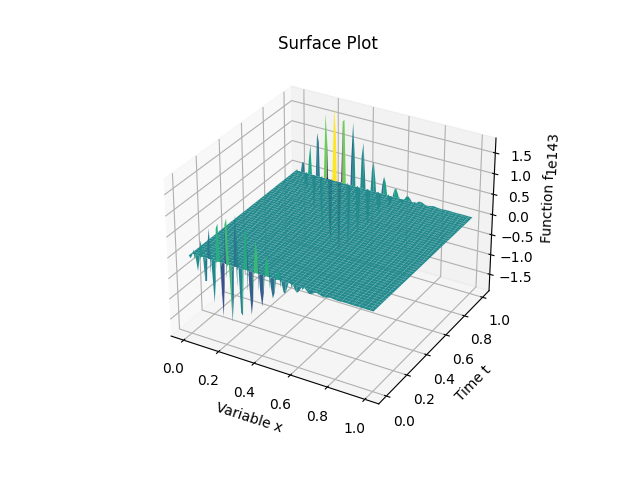
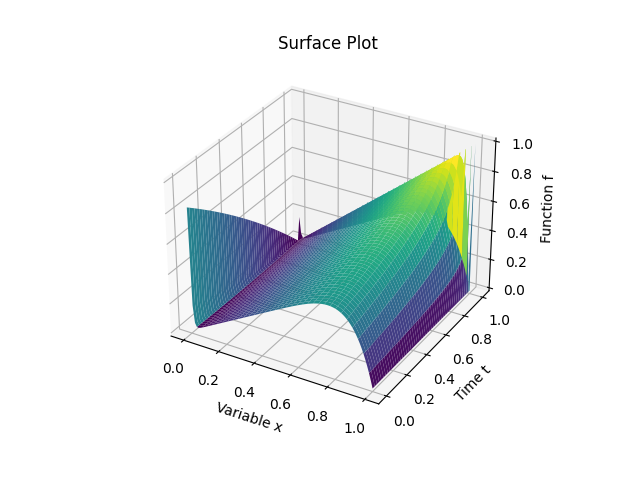
++

diff --git a/crank_test.py b/crank_test.py
@@ -19,13 +19,13 @@ def Crank_Nicolson(S0, r, T, N, M, x_max, x_min, sigma):
 
     V = np.zeros(shape=(M + 2, N + 2))
     C = np.zeros(shape=(M + 2, N + 2))
-    K = np.zeros((M + 2, N + 2))
+    K = np.zeros(shape=(M + 2, N + 2))
     K2 = np.zeros(shape=(M + 2, N + 2))
 
-    A = np.zeros(N + 1)
-    B = np.zeros(N + 1)
-    D = np.zeros(N + 1)
-    D2 = np.zeros(N + 1)
+    A = np.zeros(N + 2)
+    B = np.zeros(N + 2)
+    D = np.zeros(N + 2)
+    D2 = np.zeros(N + 2)
 
     for n in range(0, M + 2):
         V[n, 0] = 1 / (r * T) * (1 - np.exp(-r * (T - n * deltat))) - x_min * np.exp(-r * (T - t[n]))
@@ -37,14 +37,17 @@ def Crank_Nicolson(S0, r, T, N, M, x_max, x_min, sigma):
     # for n in range(0, M + 1):
     for n in range(1, M + 1):
         for i in range(1, N + 1):
-            A[i] = - deltat * 0.25 * (-(i * r + 1/(T * delta_x)) - (sigma**2) * (i**2))
-            B[i] = deltat * 0.25 * (-(i * r + 1/(T * delta_x)) + (sigma**2) * (i**2))
+            A[i] = - deltat * 0.25 * (-(i * r + 1/(T * delta_x)) + (sigma**2) * (i**2))
+            B[i] = deltat * 0.25 * (-(i * r + 1/(T * delta_x)) - (sigma**2) * (i**2))
             D[i] = 1 + deltat * 0.5 * (sigma**2) * (i**2)
+            # A[i] = deltat * (-(sigma ** 2 * i ** 2) / (2 * delta_x ** 2) - (1 / T + r * i) * 1 / (2 * delta_x))
+            # B[i] = deltat * ((sigma ** 2 * i ** 2) / (delta_x ** 2) + 1 / deltat)
+            # D[i] = deltat * (-(sigma ** 2 * i ** 2) / (2 * delta_x ** 2) + (1 / T + r * i) * 1 / (2 * delta_x))
             h = 1 / (r * T) * (1 - np.exp(-r * (T - (n - 1) * deltat)))
             # K[n, i] = A[i] * V[n - 1, i + 1] + B[i] * V[n - 1, i - 1] + D[i] * V[n - 1, i] - Kronecker(1, i) * B[1] * h
-            # K[n, i] = A[i] * V[n, i - 1] + B[i] * V[n, i + 1] + D[i] * V[n, i] - Kronecker(1, i) * B[1] * h
-            K[n, i] = B[i] * V[n, i - 1] + A[i] * V[n, i + 1] + D[i] * V[n, i] - Kronecker(1, i) * B[1] * h
-
+            K[n, i] = A[i] * V[n, i - 1] + B[i] * V[n, i + 1] + D[i] * V[n, i] - Kronecker(1, i) * B[1] * h
+            # K[n, i] = B[i] * V[n, i - 1] + A[i] * V[n, i + 1] + D[i] * V[n, i] - Kronecker(1, i) * B[1] * h
+            # K[n + 1, i] = A[i] * V[n, i - 1] + B[i] * V[n, i] + D[i] * V[n, i + 1] - Kronecker(1, i) * B[1] * h
 
         D2[1] = D[1]
         K2[n, 1] = K[n, 1]
@@ -79,6 +82,7 @@ def Crank_Nicolson(S0, r, T, N, M, x_max, x_min, sigma):
     plt.show()
     return V
 
+
 # Paramètres
 
 Xmin = 0
@@ -91,7 +95,7 @@ sigma = 0.3
 N = 99
 M = 999
 
-S = np.linspace(1,50,50)
+S = np.linspace(1, 50, 50)
 V = np.zeros(len(S))
 x = np.linspace(Xmin, Xmax, N + 2)
 
@@ -99,6 +103,5 @@ x = np.linspace(Xmin, Xmax, N + 2)
 
 Crank_Nicolson(S0, r, T, N, M, Xmax, Xmin, sigma)
 
-fig = plt.figure(figsize =(14, 9))
-ax = plt.axes(projection ='3d')
-
+fig = plt.figure(figsize=(14, 9))
+ax = plt.axes(projection='3d')

diff --git a/asian_option_difference.py b/asian_option_difference.py
@@ -1,49 +1,39 @@
-import pandas as pd
-import datetime as dt
 import numpy as np
 import matplotlib.pyplot as plt
-from scipy.stats import norm
-import math
-import statistics
-from scipy import integrate as intg
-
+from mpl_toolkits.mplot3d import Axes3D
 
 def euler(S0, r, sigma, T, K, N, M, x_max, x_min):
     x = np.linspace(x_min, x_max, N + 2)
     t = np.linspace(0, T, M + 2)
-    deltat = T / (M + 1)
+    delta_t = T / (M + 1)
     delta_x = (x_max - x_min) / (N + 1)
 
     F = np.zeros(shape=(M + 2, N + 2))
 
-    for n in range(0, M + 1):
-        F[n, 0] = 1 / (r * T) * (1 - np.exp(-r * (T - n * deltat)))
-        F[n, N + 1] = 0
+    # Set initial and boundary conditions
+    F[:, 0] = 1 / (r * T) * (1 - np.exp(-r * (T - t)))
+    F[:, N + 1] = 0
+    F[M + 1, :] = np.maximum(-x, 0)
 
-    for i in range(N + 2):
-        F[M + 1, i] = np.maximum(x[i], 0)
-
-    for n in range(M + 1, -1, -1):
+    for n in range(M, 0, -1):
         for i in range(1, N + 1):
-            F[n - 1, i] = F[n, i] - deltat * (1 / T + r * x[i]) * (F[n, i + 1] - F[n, i - 1]) / (2 * deltat) + (
-                        sigma ** 2 * (x[i]) ** 2 * deltat) / (2 * delta_x ** 2) * (
-                                      F[n, i + 1] + F[n, i - 1] - 2 * F[n, i])
-
+            F[n - 1, i] = F[n, i] - delta_t * (1 / T + r * x[i]) * (F[n, i + 1] - F[n, i - 1]) / (2 * delta_x) + \
+                          sigma ** 2 * x[i] ** 2 * delta_t / (2 * delta_x ** 2) * (F[n, i + 1] - 2 * F[n, i] + F[n, i - 1])
 
     # Create a meshgrid to plot the surface
     X, T = np.meshgrid(x, t)
 
     # Plot the surface
     fig = plt.figure()
-    ax = fig.add_subplot(projection='3d')
-    ax.plot_surface(X, T, F, cmap='viridis')
-    ax.set_xlabel('Variable x')
-    ax.set_ylabel('Time t')
-    ax.set_zlabel('Function f')
-    ax.set_title('Surface Plot')
-    plt.savefig("Graph/euler.png")
+    ax = fig.add_subplot(111, projection='3d')
+    ax.plot_surface(X, T, F, cmap='viridis', edgecolor='none')
+    ax.view_init(elev=10, azim= 1)
+    ax.set_xlabel('x')
+    ax.set_ylabel('t')
+    ax.set_zlabel('f(t, x)')
+    ax.set_title('Numerical Solution using Explicit Euler Method')
+    plt.savefig('euler_explicit.png')
     plt.show()
-
 
 if __name__ == '__main__':
     x_max = 1
